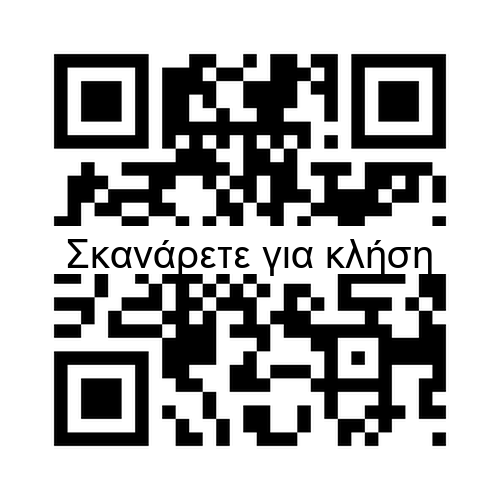
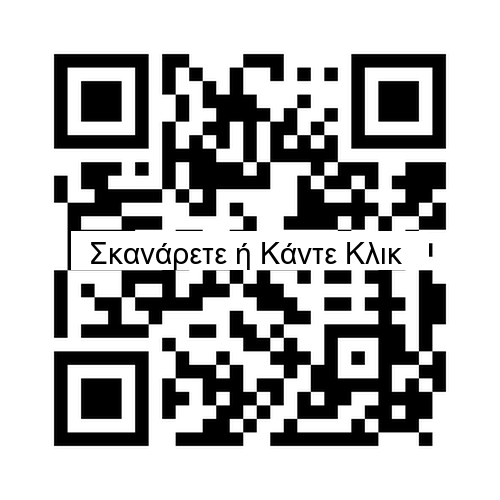
update  qrs

Changed region(s): [[0.09, 0.09, 0.9, 0.9], [0.66, 0.78, 0.72, 0.81]]

diff --git a/pelican-website-doctor/plugins/generate_qr.py b/pelican-website-doctor/plugins/generate_qr.py
@@ -28,7 +28,7 @@ def generate_qr_with_text(data, filename="qrcode.png", output_size=(500, 500)):
     draw = ImageDraw.Draw(img)
 
     # Define the text
-    text = " https://prosopikosiatrosalimos.gr \n "
+    text = " Σκανάρετε ή Κάντε Κλικ  \n"
 
     # Calculate text size and position
     bbox = draw.textbbox((0, 0), text, font=font)
@@ -56,5 +56,5 @@ def generate_qr_with_text(data, filename="qrcode.png", output_size=(500, 500)):
 
 # Example Usage
 if __name__ == "__main__":
-    phone_number = "https://prosopikosiatrosalimos.gr/"
-    generate_qr_with_text(phone_number, "../content/images/website_qr.png", output_size=(500, 500))
+    phone_number = "6907218124"
+    generate_qr_with_text(phone_number, "../content/images/mobile_qr.png", output_size=(500, 500))
